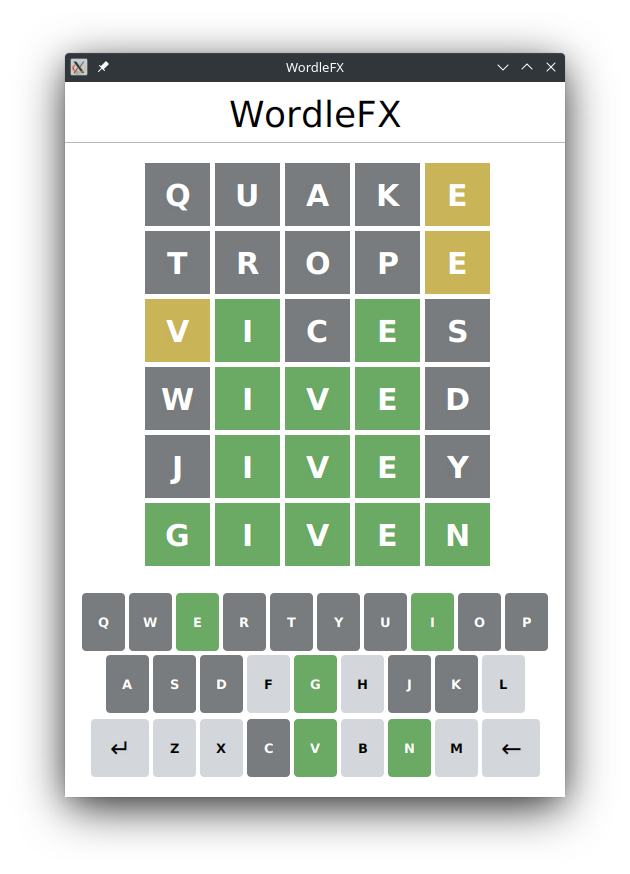
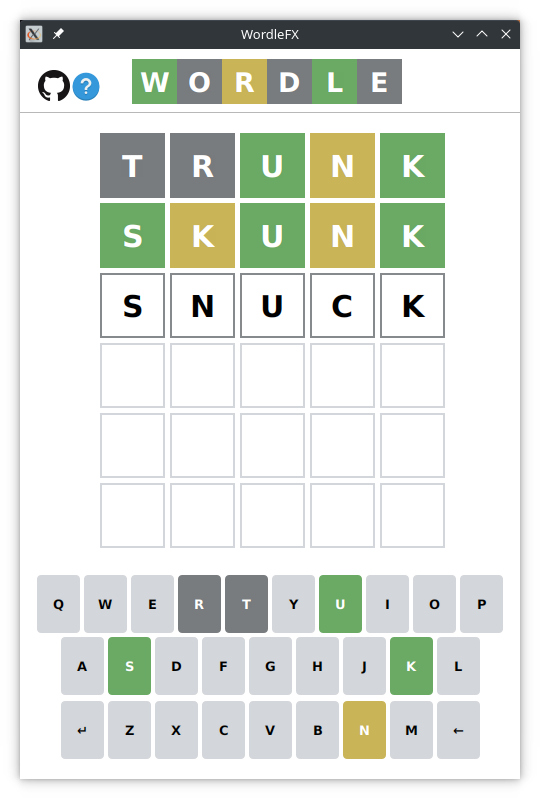
redesigned UI elements

diff --git a/src/main/java/com/example/javafxwordle/MainController.java b/src/main/java/com/example/javafxwordle/MainController.java
@@ -1,22 +1,15 @@
 package com.example.javafxwordle;
 
 import javafx.fxml.FXML;
-import javafx.scene.control.Label;
-import javafx.scene.image.Image;
 import javafx.scene.image.ImageView;
 import javafx.scene.input.KeyEvent;
-import javafx.scene.input.MouseEvent;
 import javafx.scene.layout.GridPane;
-import org.kordamp.bootstrapfx.BootstrapFX;
-
-import java.util.Objects;
+import javafx.scene.layout.HBox;
 
 public class MainController {
 
     private final MainHelper mainHelper = MainHelper.getInstance();
 
-    @FXML
-    public Label title;
     @FXML
     public GridPane gridPane;
     @FXML
@@ -26,20 +19,20 @@ public class MainController {
     @FXML
     public GridPane keyboardRow3;
     @FXML
-    public ImageView githubImage;
+    public ImageView helpIcon;
+    @FXML
+    public ImageView githubIcon;
+    @FXML
+    public HBox titleHBox;
+
+    public void createUI() {
+        createGrid();
+        createKeyboard();
+        createTitleHBox();
+    }
 
     public void createGrid() {
         mainHelper.createGrid(gridPane);
-        title.getStylesheets().add(BootstrapFX.bootstrapFXStylesheet());
-        title.getStyleClass().setAll("h1", "strong");
-      //  createImages();
-    }
-
-    public void createImages() {
-        Image image = new Image(Objects.requireNonNull(getClass().getResourceAsStream("images/GitHub-Mark-32px.png")));
-        githubImage.setImage(image);
-        githubImage.setX(10);
-        githubImage.setY(15);
     }
 
     public void createKeyboard() {
@@ -59,7 +52,12 @@ public class MainController {
         mainHelper.getRandomWord();
     }
 
-    public void showHelp(MouseEvent mouseEvent) {
+    public void showHelp() {
         HelpWindow.display();
     }
+
+    public void createTitleHBox() {
+        mainHelper.createTitleHBox(titleHBox);
+    }
+
 }

diff --git a/src/main/java/com/example/javafxwordle/MainApplication.java b/src/main/java/com/example/javafxwordle/MainApplication.java
@@ -4,6 +4,7 @@ import javafx.application.Application;
 import javafx.fxml.FXMLLoader;
 import javafx.scene.Parent;
 import javafx.scene.Scene;
+import javafx.scene.image.Image;
 import javafx.stage.Screen;
 import javafx.stage.Stage;
 
@@ -11,6 +12,7 @@ import java.io.BufferedReader;
 import java.io.FileReader;
 import java.io.IOException;
 import java.util.ArrayList;
+import java.util.Objects;
 
 public class MainApplication extends Application {
 
@@ -25,10 +27,14 @@ public class MainApplication extends Application {
         stageReference = stage;
         FXMLLoader fxmlLoader = new FXMLLoader(MainApplication.class.getResource("main-view.fxml"));
         Parent root = fxmlLoader.load();
+
         MainController mainController = fxmlLoader.getController();
-        mainController.createGrid();
-        mainController.createKeyboard();
+        mainController.createUI();
         mainController.getRandomWord();
+        mainController.helpIcon.setImage(new Image(Objects.requireNonNull(getClass().getResourceAsStream("images/help.png"))));
+        mainController.githubIcon.setImage(new Image(Objects.requireNonNull(getClass().getResourceAsStream("images/github.png"))));
+
+        mainController.githubIcon.setOnMouseClicked(me -> getHostServices().showDocument("https://github.com/jpkhawam/WordleFX"));
 
         double screenWidth = Screen.getPrimary().getBounds().getWidth();
         double screenHeight = Screen.getPrimary().getBounds().getHeight();

diff --git a/src/main/java/com/example/javafxwordle/MainHelper.java b/src/main/java/com/example/javafxwordle/MainHelper.java
@@ -6,6 +6,7 @@ import javafx.scene.control.Label;
 import javafx.scene.input.KeyCode;
 import javafx.scene.input.KeyEvent;
 import javafx.scene.layout.GridPane;
+import javafx.scene.layout.HBox;
 import javafx.util.Duration;
 
 import java.util.*;
@@ -34,6 +35,22 @@ public class MainHelper {
         if (INSTANCE == null)
             INSTANCE = new MainHelper();
         return INSTANCE;
+    }
+
+    public void createTitleHBox(HBox titleHBox) {
+        ArrayList<Label> titleLetters = new ArrayList<>();
+        for (String letter : new String[]{"W", "O", "R", "D", "L", "E"}) {
+            Label label = new Label(letter);
+            if (letter.equals("W") || letter.equals("L"))
+                label.getStyleClass().setAll("correct-letter-example");
+            else if (letter.equals("R"))
+                label.getStyleClass().setAll("present-letter-example");
+            else
+                label.getStyleClass().setAll("wrong-letter-example");
+            titleLetters.add(label);
+        }
+        for (Label label : titleLetters)
+            titleHBox.getChildren().add(label);
     }
 
     public void createGrid(GridPane gridPane) {
